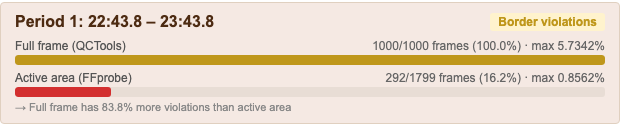
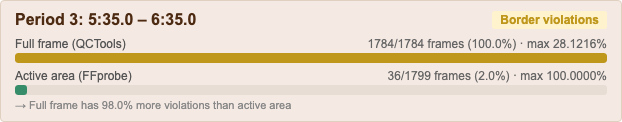
updating readme and help window to match new sigstats behavior

diff --git a/src/AV_Spex/config/help/avspex_help.md b/src/AV_Spex/config/help/avspex_help.md
@@ -409,24 +409,34 @@ Two modes are available:
 
 **Iterative refinement**: After initial border detection, BRNG analysis runs on the detected active area. If a high percentage of violations occur at the edges of the active area — suggesting the borders were not cropped aggressively enough — the borders are automatically expanded and the analysis is re-run, up to the configured maximum number of retries. The goal is to separate true content violations from border artifacts.
 
-Border Detection is required for Signalstats Analysis, and the detected active area can also be used to crop the access file (**Crop Borders** output option).
+Border Detection is required for Signalstats Analysis in the Checks tab (the signalstats comparison needs an active picture area), and the detected active area can also be used to crop the access file (**Crop Borders** output option).
 
 CLI: `av-spex --enable-border-detection {on,off}`, `--frame-borders {simple,sophisticated}`, `--frame-border-pixels 25`
 
 ### Signalstats Analysis
 
-Evaluates broadcast-range compliance across sampled time periods of the video using the FFmpeg `signalstats` BRNG metric — the fraction of pixels in each frame that fall outside the broadcast-legal range (for 8-bit video: luma below 16 or above 235, chroma below 16 or above 240).
+Evaluates broadcast-range compliance across sampled time periods of the video using the FFmpeg `signalstats` BRNG metric — the share of pixels in a frame that fall outside the broadcast-legal range. In 10-bit code values that is luma below 64 or above 940, or chroma below 64 or above 960 (16–235 luma and 16–240 chroma in 8-bit video); FFmpeg applies the limits for the file's own bit depth, so values are always measured on the native scale.
+
+**What counts as a violation**: a frame is *flagged* as soon as a single pixel anywhere in it is out of range, so the percentages below are shares of flagged **frames**, not shares of pixels. Because one pixel is enough to flag a frame, that share is not a severity measure on its own — severity is keyed mainly to the **average BRNG**: the average percentage of out-of-range pixels per analyzed frame, where 10% or more reads as "review recommended". All-black frames are skipped on the full-frame side, because the sub-black noise in analog tape black would otherwise dominate the results; a frame counts as black when, in 10-bit code values, its maximum luma (YMAX) is below 300, its 90th-percentile luma (YHIGH) below 115, and its 10th-percentile luma (YLOW) below 97.
 
 **Dual-source comparison**: When Border Detection has identified an active picture area, two parallel analyses run for each period to distinguish border artifacts from actual content violations:
 
 1. **QCTools (full frame)** — BRNG values parsed from the QCTools report, covering the entire frame including borders and blanking areas
 2. **FFprobe (active area only)** — BRNG values computed with a crop filter applied, so only the detected active picture area is analyzed
 
-Comparing the two reveals whether violations originate from border/blanking regions or from the picture content itself: if the full frame shows significantly more violations (>5%) than the active area, they are classified as *border violations*; if the active area itself shows >10% violations, they are classified as *content violations* that may require correction. The final diagnosis is based on the active-area results — the picture content that would actually be seen in playback or broadcast.
+Both sides use the same rule for flagging a frame, so their shares can be compared directly. Each period is then classified, in this order:
+
+- **Border violations** — the full frame has more than 5 percentage points more flagged frames than the active area, *and* fewer than 30% of active-area frames are flagged. That second condition matters: a period whose active picture is itself heavily flagged is never written off as a border artifact, however much worse the full frame looks.
+- **Content violations** — otherwise, more than 10% of active-area frames are flagged; these may require correction.
+- **Minimal violations** — neither of the above.
+
+The aggregate numbers reported for the file come from the active-area pass — the picture content that would actually be seen in playback or broadcast. The overall diagnosis is a vote across periods: when more periods were classified as border violations than as content violations, the picture content itself is reported as broadcast-safe.
 
 ![A signalstats period comparison from the HTML report](signalstats_period_example.png)
 
-*A one-minute analysis period as shown in the HTML report. The full frame flags BRNG violations on every frame, but the active picture area flags only 16.2% — so the period is classified as border violations rather than content violations.*
+*A one-minute analysis period as shown in the HTML report. Every non-black frame is flagged when the whole frame is measured, but only 2.0% of frames are flagged inside the active picture area — so the period is classified as border violations rather than content violations. Note the active area's max BRNG of 100%: one frame in the period was entirely out of range, a reminder that the flagged-frame share and the severity of the violations are two different things.*
+
+**Without Border Detection**: the Checks tab requires Border Detection before Signalstats Analysis can be enabled, since the comparison above needs an active picture area to compare against. From the command line the two flags are independent — with border detection off, signalstats still runs, measuring the full frame only, and says so in every diagnosis it produces ("borders were not excluded").
 
 **Period selection**: Analysis periods target, in priority order: timestamps where QCTools detected the highest concentrations of BRNG activity, timestamps flagged during border detection as having interesting signal characteristics, and finally evenly spaced periods across the content (after color bars).
 
@@ -639,7 +649,7 @@ av-spex [path/to/directory]
 - `--enable-bitplane-check {on,off}` — Toggle the 9th/10th bit verification
 - `--enable-border-detection {on,off}` — Toggle active picture area detection
 - `--enable-brng-analysis {on,off}` — Toggle differential BRNG analysis
-- `--enable-signalstats {on,off}` — Toggle signalstats analysis (requires border detection)
+- `--enable-signalstats {on,off}` — Toggle signalstats analysis (runs full-frame only if border detection is off)
 - `--enable-dropped-sample-detection {on,off}` — Toggle dropped audio sample detection
 - `--enable-duplicate-frame-detection {on,off}` — Toggle duplicate/frozen frame detection
 - `--frame-borders {simple,sophisticated}` — Border detection mode

diff --git a/README.md b/README.md
@@ -333,7 +333,13 @@ Detects out-of-range luma and chroma values (BRNG — **B**roadcast **Ra**n**g**
 
 ### Signalstats
 
-Runs FFmpeg's `signalstats` filter over sampled time periods (default: 3 periods of 60 seconds each) to assess signal quality across the tape.
+Measures broadcast-range compliance — the FFmpeg `signalstats` BRNG metric, the share of pixels in a frame outside the broadcast-legal range — across sampled time periods (default: 3 periods of 60 seconds each, the same periods BRNG analysis then uses).
+
+When border detection has identified an active picture area, each period is measured twice: the **full frame**, read from the QCTools report, and the **active picture area only**, computed by FFprobe with a crop filter applied. Comparing the two separates violations that come from borders and blanking from violations in the picture content itself, and each period is classified as *border violations*, *content violations*, or *minimal violations*. The figures reported for the file come from the active-area pass. With border detection off, signalstats still runs from the CLI, measuring the full frame only and labelling its diagnosis accordingly.
+
+A frame counts as flagged from a single out-of-range pixel, so the flagged-frame percentages are not a severity measure by themselves — severity is based mainly on the average share of out-of-range pixels per analyzed frame. All-black frames are excluded from the full-frame pass, since the sub-black noise in analog tape black would otherwise dominate the results.
+
+Signalstats also places and refines the analysis periods that BRNG analysis uses: a period whose active area turns out to hold essentially nothing out of range is swapped for the next-best candidate. The in-app Help window documents the full methodology, including the classification thresholds.
 
 ### Dropped Sample Detection
 
